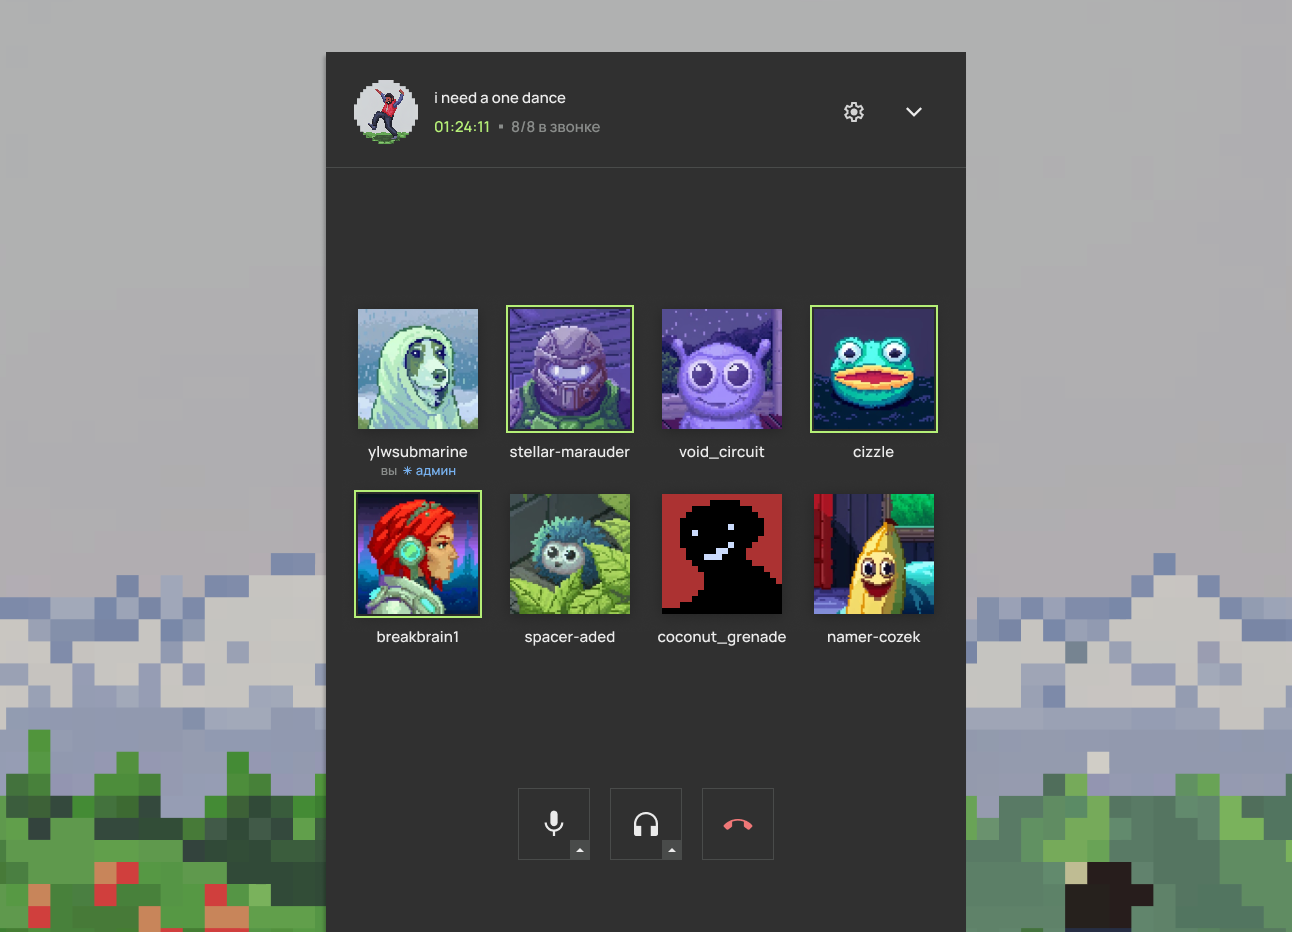
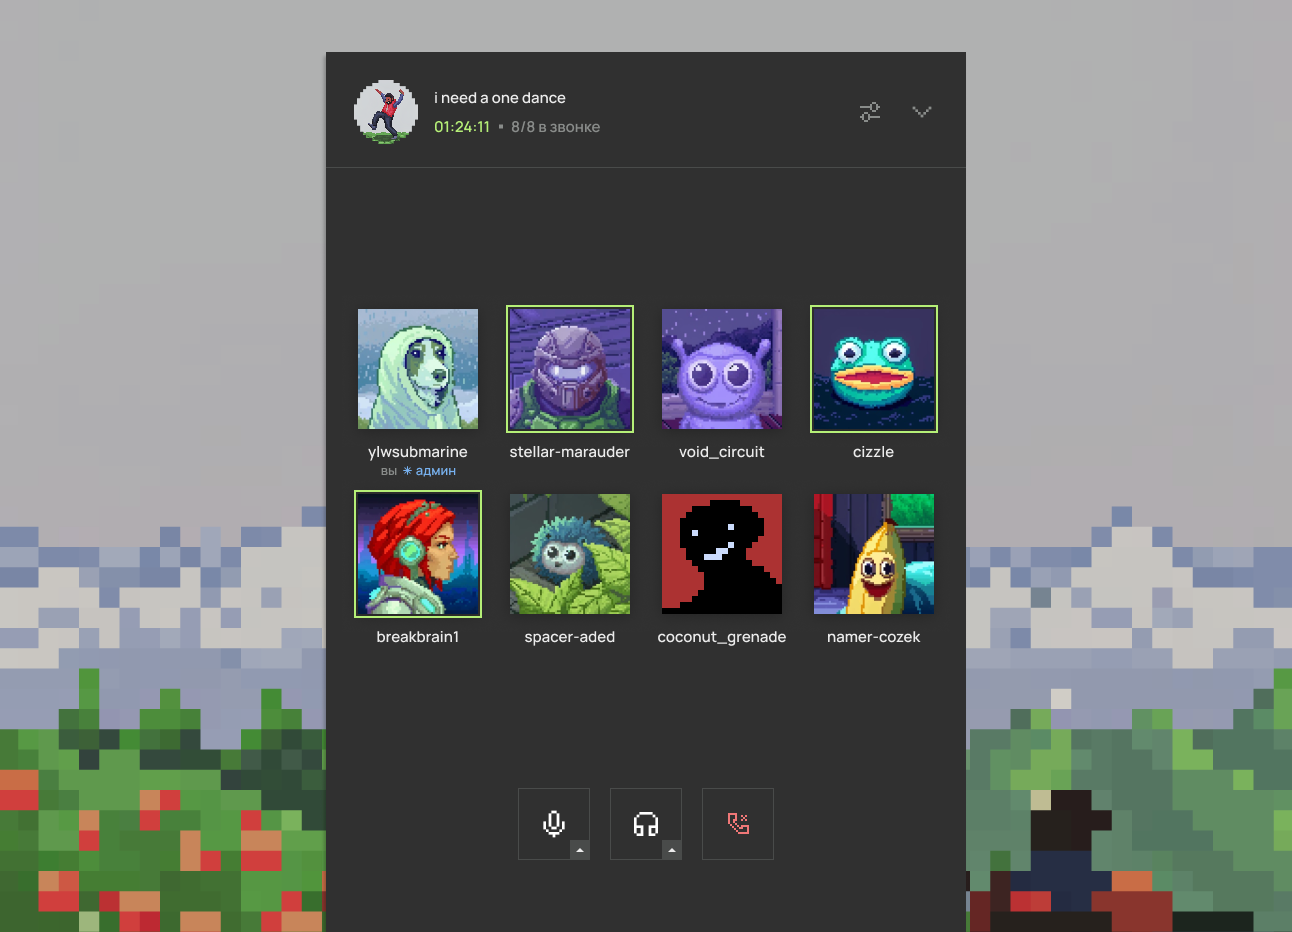
Set up production deployment and add Yandex Metrika
- Add lib/site.ts with SITE_URL constant (NEXT_PUBLIC_SITE_URL env var)
- Add metadataBase and use SITE_URL in layout.tsx and sitemap.ts
- Add Yandex Metrika tracking (ID 108242058) via next/script afterInteractive
- Make ecosystem.config.js portable with path.resolve(__dirname)
- Add .env.example and deploy/nginx-mute.ac.conf
- Update public images: hero, solo-calls-card, group-calls-card
- Remove unused image assets (calls-card.png, group-calls-card-1.png, solo-calls-card.png)

Made-with: Cursor

diff --git a/app/layout.tsx b/app/layout.tsx
@@ -1,8 +1,10 @@
 import type { Metadata } from "next";
 import { Golos_Text } from "next/font/google";
+import Script from "next/script";
 import "./globals.css";
 import SmoothScroll from "@/components/SmoothScroll";
 import { OSProvider } from "@/components/OSProvider";
+import { SITE_URL } from "@/lib/site";
 
 const golosText = Golos_Text({
   variable: "--font-golos",
@@ -11,16 +13,17 @@ const golosText = Golos_Text({
 });
 
 export const metadata: Metadata = {
+  metadataBase: new URL(SITE_URL),
   title: "Mute — голосовое общение для игр и друзей",
   description: "Легкий голосовой чат без лишнего. Один клик — и ты на связи. Личные звонки и комнаты до 8 человек. Бесплатно.",
   openGraph: {
     title: "Mute — голосовое общение для игр и друзей",
     description: "Легкий голосовой чат без лишнего. Один клик — и ты на связи.",
-    url: "https://mute.ac",
+    url: SITE_URL,
     siteName: "Mute",
     images: [
       {
-        url: "https://mute.ac/open-graph.png",
+        url: "/open-graph.png",
         width: 1200,
         height: 630,
         alt: "Mute — голосовой чат",
@@ -33,7 +36,7 @@ export const metadata: Metadata = {
     card: "summary_large_image",
     title: "Mute — голосовое общение для игр и друзей",
     description: "Легкий голосовой чат без лишнего. Один клик — и ты на связи.",
-    images: ["https://mute.ac/open-graph.png"],
+    images: ["/open-graph.png"],
   },
 };
 
@@ -48,6 +51,26 @@ export default function RootLayout({
         <OSProvider>
           <SmoothScroll>{children}</SmoothScroll>
         </OSProvider>
+        <Script
+          id="yandex-metrika"
+          strategy="afterInteractive"
+          dangerouslySetInnerHTML={{
+            __html: `
+              (function(m,e,t,r,i,k,a){
+                m[i]=m[i]||function(){(m[i].a=m[i].a||[]).push(arguments)};
+                m[i].l=1*new Date();
+                for (var j = 0; j < document.scripts.length; j++) {if (document.scripts[j].src === r) { return; }}
+                k=e.createElement(t),a=e.getElementsByTagName(t)[0],k.async=1,k.src=r,a.parentNode.insertBefore(k,a)
+              })(window, document,'script','https://mc.yandex.ru/metrika/tag.js?id=108242058', 'ym');
+              ym(108242058, 'init', {ssr:true, clickmap:true, ecommerce:"dataLayer", referrer: document.referrer, url: location.href, accurateTrackBounce:true, trackLinks:true});
+            `,
+          }}
+        />
+        <noscript>
+          <div>
+            <img src="https://mc.yandex.ru/watch/108242058" style={{position:"absolute",left:"-9999px"}} alt="" />
+          </div>
+        </noscript>
       </body>
     </html>
   );

diff --git a/app/sitemap.ts b/app/sitemap.ts
@@ -1,8 +1,9 @@
 import { MetadataRoute } from "next";
 import { getAllReleases } from "@/lib/releases";
+import { SITE_URL } from "@/lib/site";
 
 export default async function sitemap(): Promise<MetadataRoute.Sitemap> {
-  const baseUrl = "https://mute.ac";
+  const baseUrl = SITE_URL;
 
   const releases = await getAllReleases();
   const releaseUrls = releases.map((release) => ({

diff --git a/ecosystem.config.js b/ecosystem.config.js
@@ -1,9 +1,11 @@
+const path = require('path');
+
 module.exports = {
   apps: [{
     name: 'mute-landing',
     script: 'npm',
     args: 'start',
-    cwd: '/root/mute/mute-landing',
+    cwd: path.resolve(__dirname),
     instances: 1,
     exec_mode: 'fork',
     autorestart: true,

diff --git a/lib/site.ts b/lib/site.ts
@@ -1,0 +1,3 @@
+/** Canonical public URL (production: https://mute.ac). Override via NEXT_PUBLIC_SITE_URL. */
+export const SITE_URL =
+  process.env.NEXT_PUBLIC_SITE_URL ?? "https://mute.ac";
